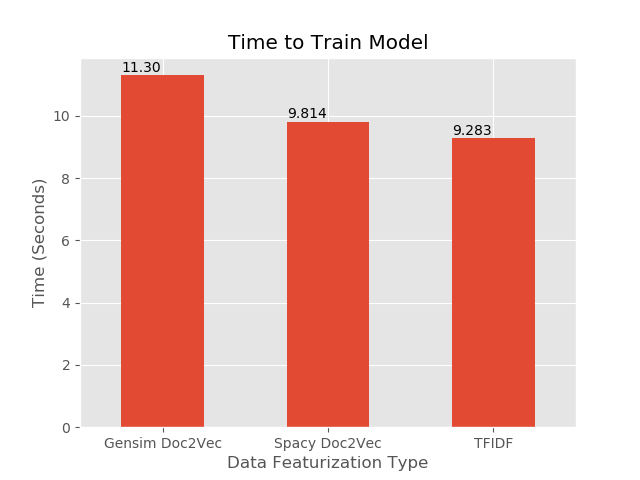
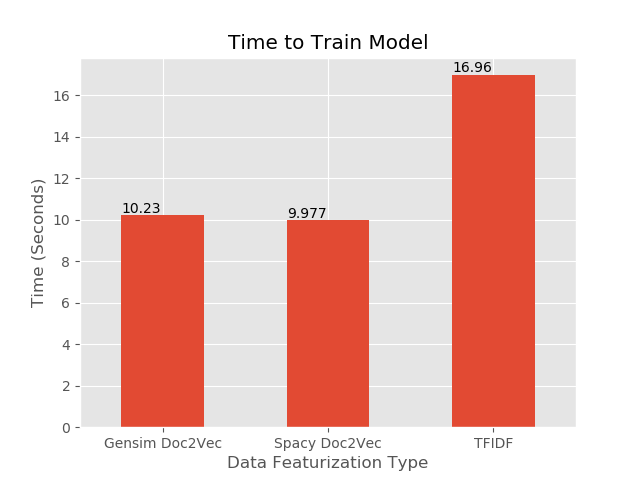
moved to using box plot and increasing the pca

diff --git a/src/ModelCompare.py b/src/ModelCompare.py
@@ -88,34 +88,34 @@ def Doc_Simularity(corpus, vector, index, n_simular = 1):
     indexes_most = cosine.argsort()[n_simular+1]
     return corpus[indexes_most], corpus[indexes_least]
 
-def ModelSplitting(X, y, test_size):
-    X_train, X_test, y_train, y_test = train_test_split(X,y, test_size=test_size, random_state=5, stratify=y)
-    return X_train, X_test, y_train, y_test
+def ModelEvaluation(model, params=None, X_test=None, y_test=None, build = True):
+    if build:
+      start_build_model = timer()
+      Bestmodel, BestParams = model.Random_Forest(params, GridSearch=False)
+      end_build_model = timer()
+      build_time = end_build_model - start_build_model
+      return Bestmodel, BestParams, build_time
 
-def ModelEvaluation(model, params, X_test, y_test):
-    start_build_model = timer()
-    Bestmodel, BestParams = model.Random_Forest(params, GridSearch=False)
-    end_build_model = timer()
-
-    start_preidct = timer()
-    y_pred = Bestmodel.predict(X_test)
+    y_pred = model.predict(X_test)
     y_pred = np.round(y_pred)
-    end_preidct = timer()
-
-    build_time = end_build_model - start_build_model
-    predict_time = end_preidct - start_preidct
 
     modelMSE = mean_squared_error(y_test, y_pred)
-    return Bestmodel, BestParams, y_pred, modelMSE, build_time, predict_time
+    return modelMSE
 
-def bar_plot(Dict, y_label, title, save_file, legend=False):
-    df = pd.DataFrame.from_dict(Dict)
-    ax = df.plot(kind='bar', x='Data Featurization Type', rot=0, legend=legend)
-    ax.set_ylabel(y_label)
-    ax.set_title(title)
-    for i in ax.patches:
-      ax.annotate(str(i.get_height())[:5], (i.get_x(), i.get_height() * 1.01))
-    plt.savefig(save_file)
+def bar_plot(y_label, title, save_file, legend=False, Box = False,Dict= None, df=None):
+    if not Box:
+      df = pd.DataFrame.from_dict(Dict)
+      ax = df.plot(kind='bar', x='Data Featurization Type', rot=0, legend=legend)
+      ax.set_ylabel(y_label)
+      ax.set_title(title)
+      for i in ax.patches:
+        ax.annotate(str(i.get_height())[:5], (i.get_x(), i.get_height() * 1.01))
+      plt.savefig(save_file)
+    else:
+      ax = df.plot.box()
+      ax.set_ylabel(y_label)
+      ax.set_title(title)
+      plt.savefig(save_file)
 
 def Document_Save_to_file(filename, corpus, word_vec):
       for index in np.random.randint(0,len(corpus),5):
@@ -131,17 +131,16 @@ def Document_Save_to_file(filename, corpus, word_vec):
           f.write('\n')
 
 if __name__ == "__main__":
-    y, corpus = Get_Corpus('data/Amz_book_review_short.parquet', plot=True)
+    y, corpus = Get_Corpus('data/Amz_book_review_short.parquet', plot=False)
     word_vec = Get_Corpus('data/Amz_book_review_short_vector.parquet', get_y=False, is_WordVec=True)
     
-    # corpus_big, corpus_short, y_big, y_short = ModelSplitting(corpus, y, .25)
-    # word_vec, word_vec_short, y_big, y_short = ModelSplitting(word_vec, y, .25)
-    X_train_tfidf, X_test_tfidf, y_train_tfidf, y_test_tfidf = train_test_split(corpus, y, test_size=.2, random_state=42, stratify=y)
-    X_train_vec_spacy, X_test_vec_spacy, y_train_vec_spacy, y_test_vec_spacy = train_test_split(word_vec, y, test_size=.2, random_state=42, stratify=y)
-    X_train_vec_gensim, X_test_vec_gensim = Doc2Vect(X_train_tfidf, X_test_tfidf)()
+    y_test, X_corpus_test = Get_Corpus('data/Amz_book_review_test.parquet', plot = False)
+    X_vec_test = Get_Corpus('data/Amz_book_review_test_vector.parquet', plot = False, is_WordVec=True)
+
+    X_train_vec_gensim, X_test_vec_gensim = Doc2Vect(corpus, X_corpus_test)()
     
-    Document_Save_to_file('DocVecspacy.txt', corpus, word_vec)
-    Document_Save_to_file('DocVecgensim.txt', X_train_tfidf, X_train_vec_gensim)
+    # Document_Save_to_file('DocVecspacy.txt', corpus, word_vec)
+    # Document_Save_to_file('DocVecgensim.txt', X_train_tfidf, X_train_vec_gensim)
     
     text_vect = Pipeline([
                         ('vect', CountVectorizer(max_features=5000, max_df=.85, min_df=2)),
@@ -149,8 +148,8 @@ if __name__ == "__main__":
     ])
 
     pca = PCA(n_components=1000)
-    X_train_tfidf = text_vect.fit_transform(X_train_tfidf).todense()
-    X_test_tfidf = text_vect.transform(X_test_tfidf).todense()
+    X_train_tfidf = text_vect.fit_transform(corpus).todense()
+    X_test_tfidf = text_vect.transform(X_corpus_test).todense()
     X_train_tfidf = pca.fit_transform(X_train_tfidf)
     X_test_tfidf = pca.transform(X_test_tfidf)
     
@@ -158,9 +157,9 @@ if __name__ == "__main__":
     # scree_plot(ax, pca)
     # plt.savefig('images/Screeplot.png')
 
-    X_smt_tfidf, y_smt_tfidf = Smote(X_train_tfidf, y_train_tfidf, plot=True)
-    X_smt_vec_spacy, y_smt_vec_spacy = Smote(X_train_vec_spacy, y_train_vec_spacy)
-    X_smt_vec_gensim, y_smt_vec_gensim = Smote(X_train_vec_gensim, y_train_tfidf)
+    X_smt_tfidf, y_smt_tfidf = Smote(X_train_tfidf, y, plot=False)
+    X_smt_vec_spacy, y_smt_vec_spacy = Smote(word_vec, y)
+    X_smt_vec_gensim, y_smt_vec_gensim = Smote(X_train_vec_gensim, y)
 
     Models_tfidf = ModelMaker(X_smt_tfidf, y_smt_tfidf)
     Models_vec_spacy = ModelMaker(X_smt_vec_spacy, y_smt_vec_spacy)
@@ -179,19 +178,30 @@ if __name__ == "__main__":
     Params_Random_Forest_Spacy_Vec =   {'bootstrap': False, 'max_depth': None, 'max_features': 'sqrt', 'min_samples_leaf': 1, 'min_samples_split': 2, 'n_estimators': 90, 'random_state': 42}
     Params_Random_Forest_Gensim_Vec =  {'bootstrap': False, 'max_depth': None, 'max_features': 'sqrt', 'min_samples_leaf': 1, 'min_samples_split': 3, 'n_estimators': 80, 'random_state': 42}
 
-    RandomForestclf_tfidf, RandomForestsBestParams_tfidf, y_pred_random_forest_tfidf, RandomForestMSE_tfidf, tfidf_build_time, tfidf_predict_time = ModelEvaluation(Models_tfidf, Params_Random_Forest_tfidf, X_test_tfidf, y_test_tfidf)
-    RandomForestclf_vec_spacy, RandomForestsBestParams_vec_spacy, y_pred_random_forest_vec_spacy, RandomForestMSE_vec_spacy, spacy_build_time, spacy_predict_time = ModelEvaluation(Models_vec_spacy, Params_Random_Forest_Spacy_Vec, X_test_vec_spacy, y_test_vec_spacy)
-    RandomForestclf_vec_gensim, RandomForestsBestParams_vec_gensim, y_pred_random_forest_vec_gensim, RandomForestMSE_vec_gensim, gensim_build_time, gensim_predict_time = ModelEvaluation(Models_vec_gensim, Params_Random_Forest_Gensim_Vec, X_test_vec_gensim, y_test_tfidf)
+    RandomForestclf_tfidf, RandomForestsBestParams_tfidf, tfidf_build_time= ModelEvaluation(Models_tfidf, Params_Random_Forest_tfidf, build=True)
+    RandomForestclf_vec_spacy, RandomForestsBestParams_vec_spacy, spacy_build_time = ModelEvaluation(Models_vec_spacy, Params_Random_Forest_Spacy_Vec, build=True)
+    RandomForestclf_vec_gensim, RandomForestsBestParams_vec_gensim, gensim_build_time = ModelEvaluation(Models_vec_gensim, Params_Random_Forest_Gensim_Vec, build=True)
 
     print('Params for Random Forest tfidf: ', RandomForestsBestParams_tfidf)
     print('Params for Random Forest Spacy Vec: ', RandomForestsBestParams_vec_spacy)
     print('Params for Random Forest Gensim Vec: ', RandomForestsBestParams_vec_gensim)
 
     # comparing the models
-    modelScores = {'Data Featurization Type': ['Gensim Doc2Vec','Spacy Doc2Vec', 'TFIDF'], 'Mean Squared Error' : [RandomForestMSE_vec_gensim, RandomForestMSE_vec_spacy, RandomForestMSE_tfidf]}
-    modelTimeTrain = {'Data Featurization Type': ['Gensim Doc2Vec','Spacy Doc2Vec', 'TFIDF'], 'Time To Train Model' : [gensim_build_time, spacy_build_time, tfidf_build_time]}
-    modelTimePred = {'Data Featurization Type': ['Gensim Doc2Vec','Spacy Doc2Vec', 'TFIDF'], 'Time to Predict' : [gensim_predict_time, spacy_predict_time, tfidf_predict_time]}
+    data = []
+    for i in range(20):
+      Xtrainc, Xtestc, ytrainc, ytestc = train_test_split(X_test_tfidf, y_test, test_size=.2)
+      Xtrainv, Xtestv, ytrainv, ytestv = train_test_split(X_vec_test[1], y_test, test_size=.2)
+      Xtraing, Xtestg, ytraing, ytestg = train_test_split(X_test_vec_gensim, y_test, test_size=.2)
+     
+      RandomForestMSE_tfidf = ModelEvaluation(RandomForestclf_tfidf, X_test=Xtestc, y_test= ytestc, build=False)
+      RandomForestMSE_vec_spacy = ModelEvaluation(RandomForestclf_vec_spacy, X_test=Xtestv, y_test= ytestv, build=False)
+      RandomForestMSE_vec_gensim = ModelEvaluation(RandomForestclf_vec_gensim, X_test=Xtestg, y_test= ytestg, build=False)
 
-    bar_plot(modelScores, 'Mean Squared Error', 'MSE for Data Featurization', 'images/Model_MSE_medium.png')
-    bar_plot(modelTimeTrain, 'Time (Seconds)', 'Time to Train Model', 'images/Model_Time_medium_Train.png')
-    bar_plot(modelTimePred, 'Time (Seconds)', 'Time to Predict from Model', 'images/Model_Time_medium_Predict.png')
+      modelScores = {'Gensim Doc2Vec' : RandomForestMSE_vec_gensim, 'Spacy Doc2Vec' :RandomForestMSE_vec_spacy, 'TFIDF' : RandomForestMSE_tfidf}
+      data.append(modelScores)
+
+    df_MSE = pd.DataFrame(data)
+    modelTimeTrain = {'Data Featurization Type': ['Gensim Doc2Vec','Spacy Doc2Vec', 'TFIDF'], 'Time To Train Model' : [gensim_build_time, spacy_build_time, tfidf_build_time]}
+
+    bar_plot('Mean Squared Error', 'MSE for Data Featurization', 'images/Model_MSE.png', Box=True, df = df_MSE)
+    bar_plot('Time (Seconds)', 'Time to Train Model', 'images/Model_Time_Train.png', Dict = modelTimeTrain)

diff --git a/src/ReadData.py b/src/ReadData.py
@@ -15,11 +15,11 @@ if __name__ == "__main__":
     mask = df['marketplace'] == 'US'
     df = df[mask].dropna()
     df_thing, df_debug = train_test_split(df,test_size=.01, random_state=42, stratify=df['star_rating'])
-    df_final = df_debug.copy()
+    df_final = df_thing.copy().iloc[:10000]
 
-    for index, i in enumerate(df_debug['review_body']):
+    for index, i in enumerate(df_final['review_body']):
         html = markdown(i)
         Text = ' '.join(BeautifulSoup(html).findAll(text=True))
-        corpus = TextFormating(Text, nlp)(vectorize=False)
+        corpus = TextFormating(Text, nlp)(vectorize=True)
         df_final['review_body'].iloc[index] = corpus
-    df_final.to_parquet('data/Amz_book_review_medium.parquet')
+    df_final.to_parquet('data/Amz_book_review_test_vector.parquet')
